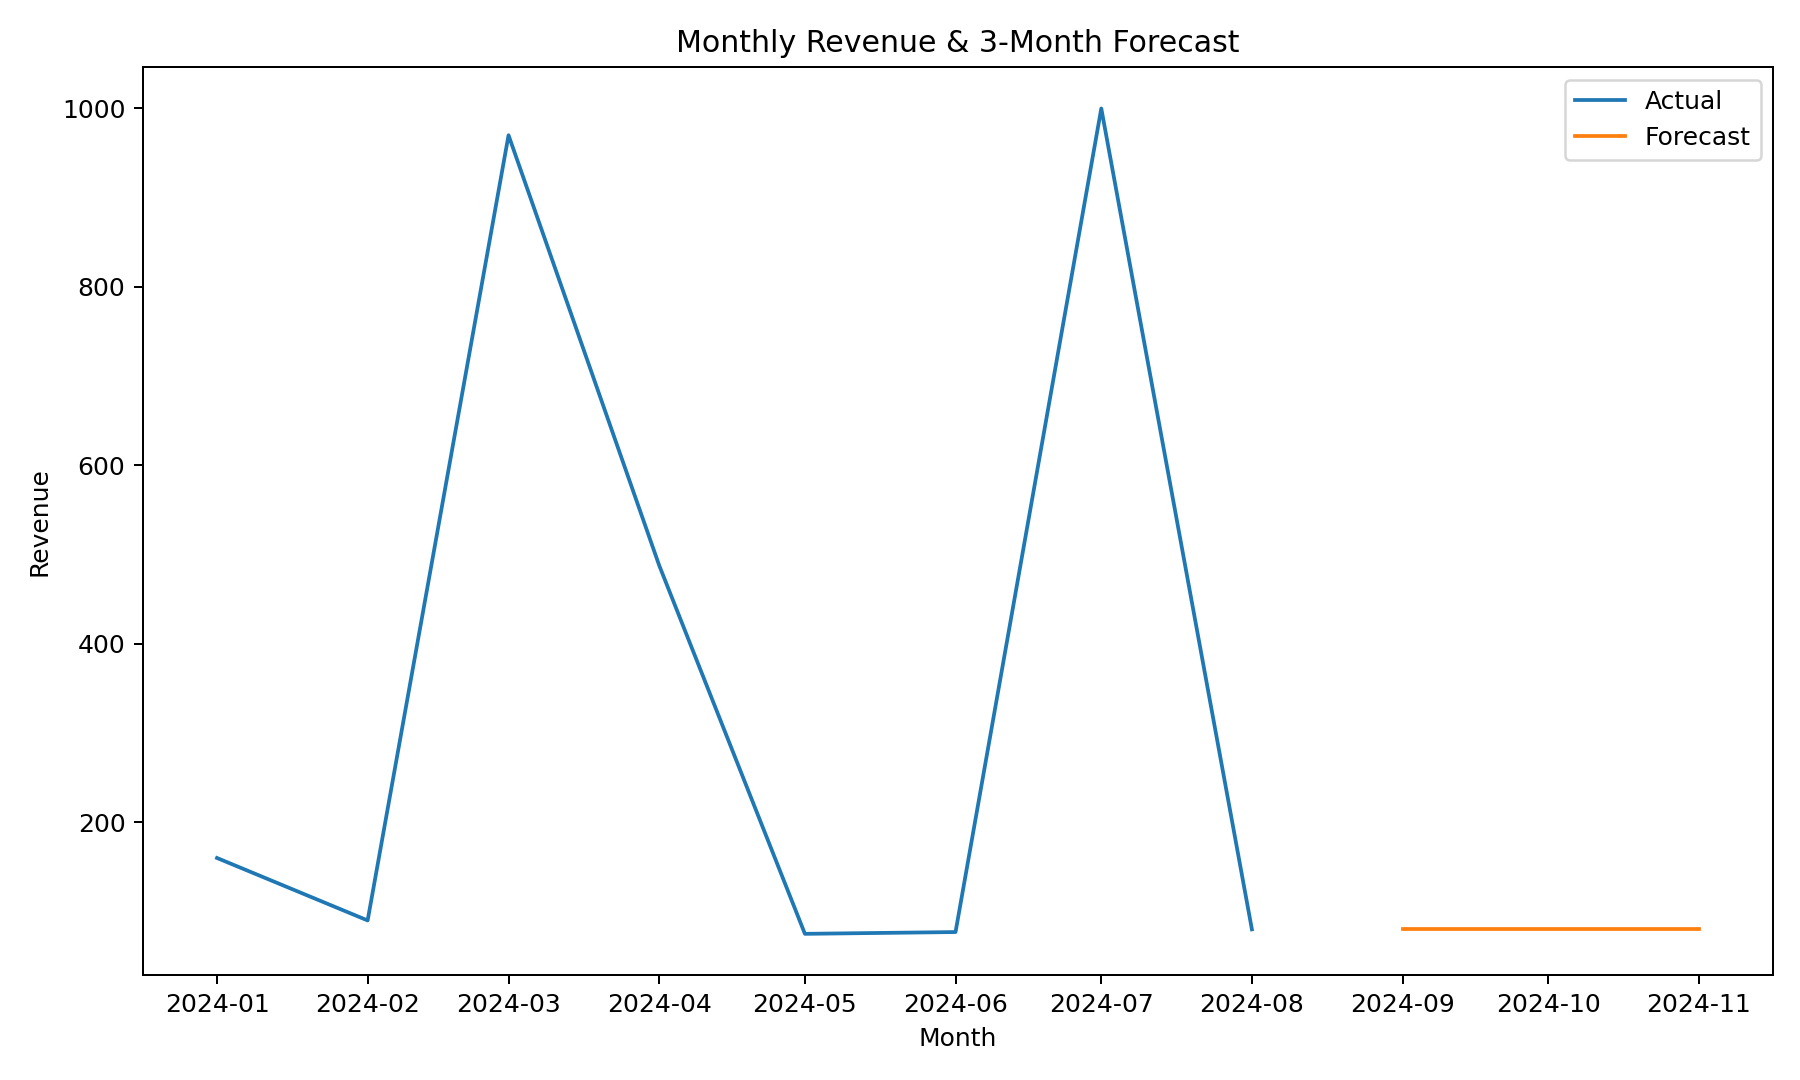
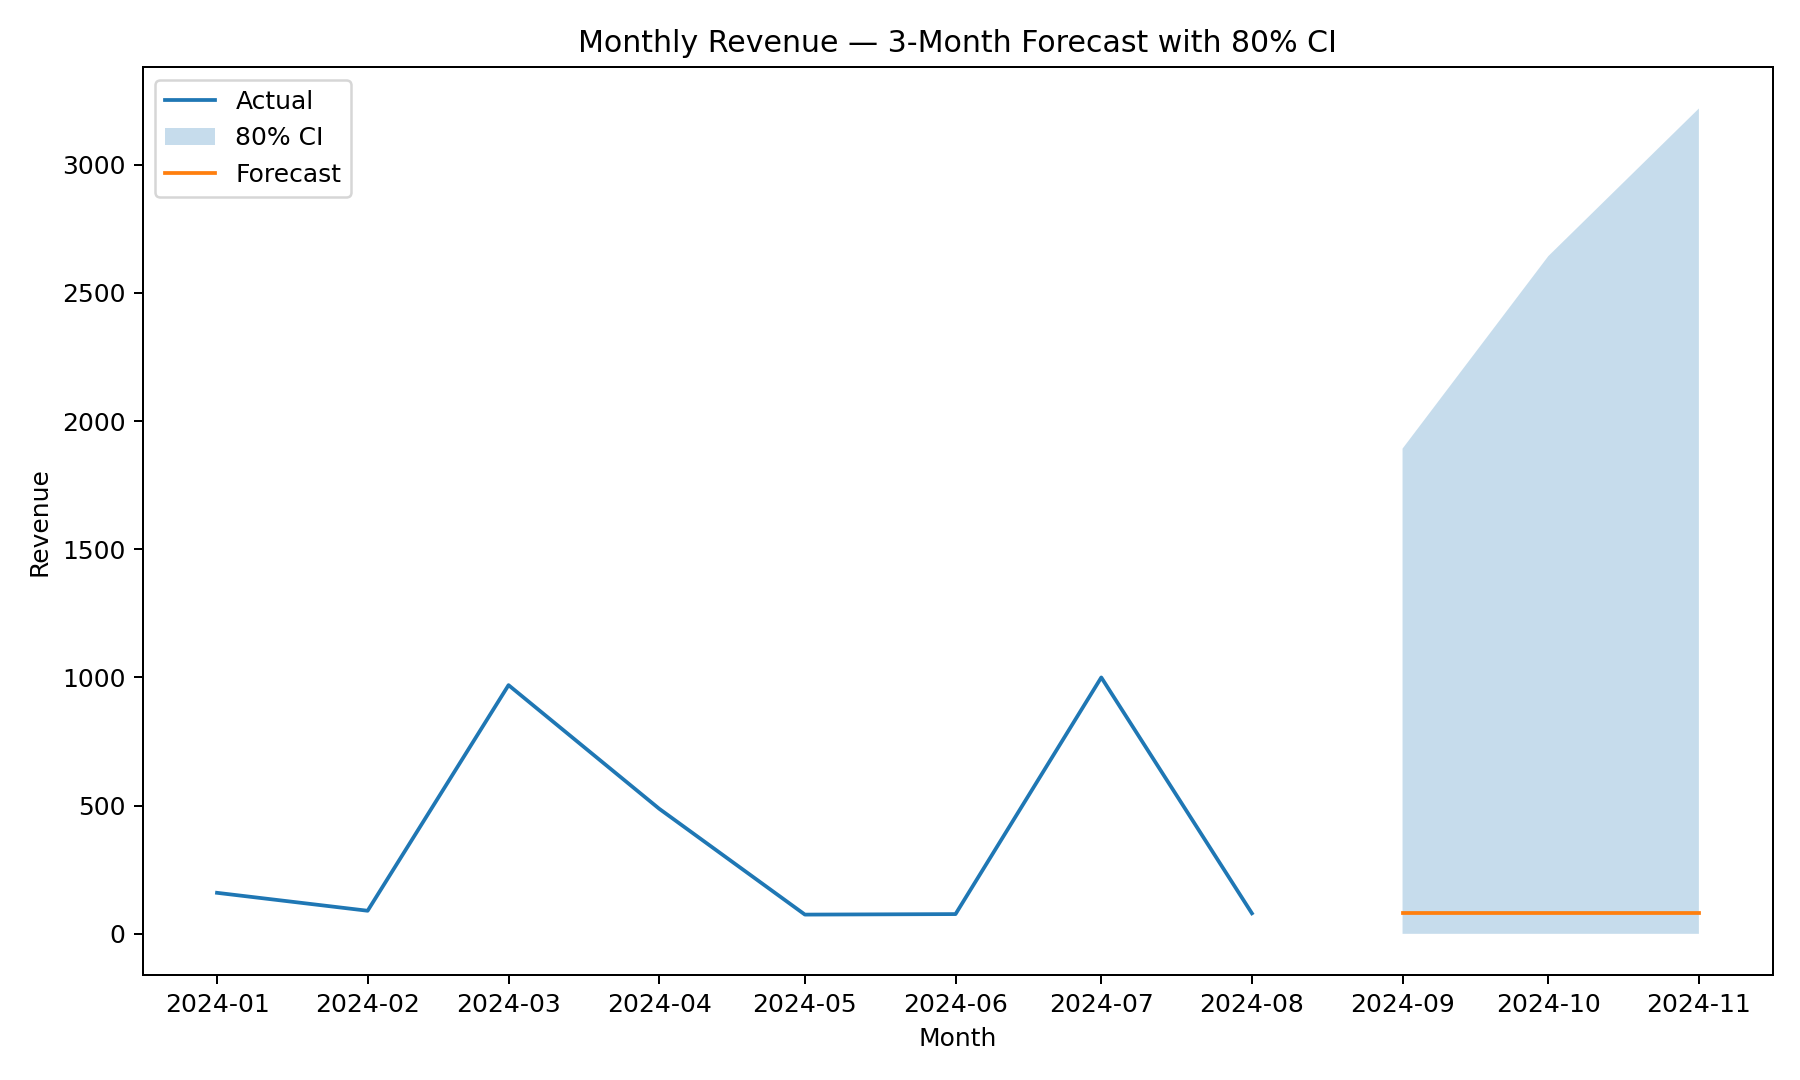
feat: CI bands, anomaly detection, BI exports (CSV + SQLite), real dataset compatibility

diff --git a/outputs/bi_dashboard.html b/outputs/bi_dashboard.html
@@ -1,2 +1,2 @@
 <h1>Retail BI Dashboard</h1><div>                        <script type="text/javascript">window.PlotlyConfig = {MathJaxConfig: 'local'};</script>
[2 lines of base64/hex data omitted]

diff --git a/retail_bi.py b/retail_bi.py
@@ -1,145 +1,213 @@
 #!/usr/bin/env python3
-import sys, re
+import sys, re, sqlite3
 from pathlib import Path
 import pandas as pd
 import numpy as np
 import matplotlib
-matplotlib.use("Agg")  # headless
+matplotlib.use("Agg")
 import matplotlib.pyplot as plt
 from statsmodels.tsa.statespace.sarimax import SARIMAX
 import plotly.graph_objects as go
 
+# ---------- Loading & cleaning ----------
+
 def load_transactions(path: Path) -> pd.DataFrame:
-    df = pd.read_csv(path, low_memory=False)
-    # Flexible header handling
+    df = pd.read_csv(path, low_memory=False, encoding="utf-8")
+    # Map likely column aliases (supports Online Retail / Online Retail II)
     cols = {c.lower(): c for c in df.columns}
-    date_col   = cols.get("invoicedate") or cols.get("date")
-    qty_col    = cols.get("quantity")
-    price_col  = cols.get("unitprice") or cols.get("price")
-    country_col= cols.get("country")
-    item_col   = cols.get("description") or cols.get("stockcode") or cols.get("item")
+    date_col    = cols.get("invoicedate") or cols.get("invoice_date") or cols.get("date")
+    qty_col     = cols.get("quantity") or cols.get("qty")
+    price_col   = cols.get("unitprice") or cols.get("unit_price") or cols.get("price")
+    country_col = cols.get("country")
+    desc_col    = cols.get("description") or cols.get("stockcode") or cols.get("item") or cols.get("stock_code")
 
-    if not date_col or not qty_col or not price_col:
-        raise RuntimeError("CSV must have at least: InvoiceDate/Date, Quantity, UnitPrice/Price")
+    req = [date_col, qty_col, price_col]
+    if any(x is None for x in req):
+        raise RuntimeError("CSV must include InvoiceDate/Date, Quantity, UnitPrice/Price")
 
-    df.rename(columns={
-        date_col:"InvoiceDate",
-        qty_col:"Quantity",
-        price_col:"UnitPrice",
-        (country_col or "Country"):"Country",
-        (item_col or "Item"):"Item"
-    }, inplace=True)
+    # Standard names
+    df = df.rename(columns={
+        date_col: "InvoiceDate",
+        qty_col: "Quantity",
+        price_col: "UnitPrice",
+        (country_col or "Country"): "Country",
+        (desc_col or "Item"): "Item",
+    })
 
-    # Types + basic cleaning
+    # Types + filters
     df["InvoiceDate"] = pd.to_datetime(df["InvoiceDate"], errors="coerce")
-    df = df.dropna(subset=["InvoiceDate"])
-    df["Quantity"] = pd.to_numeric(df["Quantity"], errors="coerce")
-    df["UnitPrice"] = pd.to_numeric(df["UnitPrice"], errors="coerce")
+    df["Quantity"]    = pd.to_numeric(df["Quantity"], errors="coerce")
+    df["UnitPrice"]   = pd.to_numeric(df["UnitPrice"], errors="coerce")
+
+    df = df.dropna(subset=["InvoiceDate", "Quantity", "UnitPrice"])
     df = df[(df["Quantity"] > 0) & (df["UnitPrice"] > 0)]
+
     df["Revenue"] = df["Quantity"] * df["UnitPrice"]
 
-    # Category (simple heuristic from start of text)
+    # Simple category (first token(s) of description) – good enough for demo
     if "Item" in df.columns:
         df["Category"] = (df["Item"].astype(str)
-            .str.extract(r"^([A-Za-z][A-Za-z ]{2,20})", expand=False)
-            .fillna("Misc").str.strip())
+                          .str.extract(r"^([A-Za-z][A-Za-z ]{2,20})", expand=False)
+                          .fillna("Misc").str.strip())
     else:
         df["Category"] = "Misc"
 
-    df["Country"] = df.get("Country", "Unknown")
-    df["Country"] = df["Country"].astype(str).str.title().str.strip()
+    df["Country"] = df.get("Country", "Unknown").astype(str).str.title().str.strip()
     return df
 
 def monthly_agg(df: pd.DataFrame) -> pd.DataFrame:
     df["Month"] = df["InvoiceDate"].dt.to_period("M").dt.to_timestamp()
-    return (df.groupby(["Month","Country","Category"], as_index=False)["Revenue"]
-              .sum()
-              .sort_values(["Month","Revenue"], ascending=[True, False]))
+    grouped = (df.groupby(["Month", "Country", "Category"], as_index=False)["Revenue"]
+                 .sum()
+                 .sort_values(["Month", "Revenue"], ascending=[True, False]))
+    return grouped
 
-def make_totals(monthly: pd.DataFrame) -> pd.Series:
-    total = (monthly.groupby("Month")["Revenue"].sum()
-             .sort_index()
-             .asfreq("MS", fill_value=0.0))
-    return total
+def totals_series(monthly: pd.DataFrame) -> pd.Series:
+    return (monthly.groupby("Month")["Revenue"].sum()
+            .sort_index()
+            .asfreq("MS", fill_value=0.0))
 
-def forecast_series(total: pd.Series, steps=3) -> pd.DataFrame:
-    # If too short, return flat forecast
+# ---------- Forecast + CI + anomalies ----------
+
+def forecast_with_ci(total: pd.Series, steps=3):
+    """Return df with yhat, lower, upper and residuals for training fit."""
     if len(total) < 8:
         idx = pd.date_range(total.index[-1] + pd.offsets.MonthBegin(), periods=steps, freq="MS")
-        return pd.DataFrame({"yhat":[float(total.iloc[-1])]*steps}, index=idx)
-    try:
-        model = SARIMAX(total, order=(1,1,1), seasonal_order=(0,1,1,12),
-                        enforce_stationarity=False, enforce_invertibility=False)
-        res = model.fit(disp=False)
-        fc = res.get_forecast(steps=steps).predicted_mean.clip(lower=0)
-        return pd.DataFrame({"yhat": fc})
-    except Exception:
-        idx = pd.date_range(total.index[-1] + pd.offsets.MonthBegin(), periods=steps, freq="MS")
-        return pd.DataFrame({"yhat":[float(total.iloc[-1])]*steps}, index=idx)
+        base = float(total.iloc[-1])
+        fc = pd.DataFrame({"yhat": [base]*steps, "lower": [base]*steps, "upper": [base]*steps}, index=idx)
+        residuals = total - total.rolling(3, min_periods=1).mean()
+        return fc, residuals
+
+    model = SARIMAX(total, order=(1,1,1), seasonal_order=(0,1,1,12),
+                    enforce_stationarity=False, enforce_invertibility=False)
+    res = model.fit(disp=False)
+    # in-sample residuals for anomaly detection
+    residuals = res.resid
+    fc_res = res.get_forecast(steps=steps)
+    pred = fc_res.predicted_mean.clip(lower=0)
+    ci   = fc_res.conf_int(alpha=0.20)  # 80% CI looks good in BI (tighter band)
+    ci.columns = ["lower", "upper"]
+    out = pd.DataFrame({"yhat": pred, "lower": ci["lower"].clip(lower=0), "upper": ci["upper"].clip(lower=0)})
+    return out, residuals
+
+def detect_anomalies(residuals: pd.Series, z_thresh=3.0) -> pd.DataFrame:
+    z = (residuals - residuals.mean()) / residuals.std(ddof=0)
+    flags = z.abs() >= z_thresh
+    return pd.DataFrame({
+        "Month": residuals.index,
+        "Residual": residuals.values,
+        "Z": z.values,
+        "Anomaly": flags.values
+    })
+
+# ---------- Visuals ----------
 
 def plot_forecast(total: pd.Series, fc: pd.DataFrame, outpath: Path):
     plt.figure(figsize=(10,6))
     plt.plot(total.index, total.values, label="Actual")
     if not fc.empty:
+        # CI band
+        plt.fill_between(fc.index, fc["lower"], fc["upper"], alpha=0.25, label="80% CI")
         plt.plot(fc.index, fc["yhat"], label="Forecast")
-    plt.title("Monthly Revenue & 3-Month Forecast")
+    plt.title("Monthly Revenue — 3-Month Forecast with 80% CI")
     plt.xlabel("Month"); plt.ylabel("Revenue")
     plt.legend(); plt.tight_layout()
-    plt.savefig(outpath, dpi=180)
-    plt.close()
+    plt.savefig(outpath, dpi=180); plt.close()
 
-def build_dashboard(monthly: pd.DataFrame, total: pd.Series, fc: pd.DataFrame, outpath: Path):
-    # Line chart (actual + forecast)
-    fig_ts = go.Figure()
-    fig_ts.add_trace(go.Scatter(x=total.index, y=total.values, mode="lines", name="Actual"))
+def build_dashboard(monthly: pd.DataFrame,
+                    total: pd.Series,
+                    fc: pd.DataFrame,
+                    anomalies: pd.DataFrame,
+                    outpath: Path):
+    # Time series + forecast + anomalies
+    ts = go.Figure()
+    ts.add_trace(go.Scatter(x=total.index, y=total.values, name="Actual", mode="lines"))
     if not fc.empty:
-        fig_ts.add_trace(go.Scatter(x=fc.index, y=fc["yhat"], mode="lines", name="Forecast"))
-    fig_ts.update_layout(title="Monthly Revenue (Actual + 3-mo Forecast)", xaxis_title="Month", yaxis_title="Revenue")
+        ts.add_trace(go.Scatter(x=fc.index, y=fc["yhat"], name="Forecast", mode="lines"))
+        ts.add_trace(go.Scatter(x=list(fc.index)+list(fc.index[::-1]),
+                                y=list(fc["upper"])+list(fc["lower"][::-1]),
+                                fill="toself", name="80% CI", mode="lines", opacity=0.2))
+    # anomaly markers
+    anom_pts = anomalies[anomalies["Anomaly"] == True]
+    if not anom_pts.empty:
+        ts.add_trace(go.Scatter(x=anom_pts["Month"], y=total.reindex(anom_pts["Month"]).values,
+                                mode="markers", name="Anomalies", marker=dict(size=10, symbol="x")))
+    ts.update_layout(title="Revenue (Actual + Forecast + CI + Anomalies)",
+                     xaxis_title="Month", yaxis_title="Revenue")
 
+    # Last 3 months breakdowns
     latest = monthly["Month"].max()
-    last3 = monthly[monthly["Month"] >= (latest - pd.offsets.MonthBegin(2))]
+    last3  = monthly[monthly["Month"] >= (latest - pd.offsets.MonthBegin(2))]
+    top_country = last3.groupby("Country")["Revenue"].sum().sort_values(ascending=False).head(10)
+    top_cat     = last3.groupby("Category")["Revenue"].sum().sort_values(ascending=False).head(10)
 
-    # Top countries
-    top_country = (last3.groupby("Country")["Revenue"].sum()
-                   .sort_values(ascending=False).head(10))
-    fig_c = go.Figure(go.Bar(x=top_country.index, y=top_country.values))
-    fig_c.update_layout(title="Top Countries (Last 3 Months)", xaxis_title="Country", yaxis_title="Revenue")
+    bar_c = go.Figure(go.Bar(x=top_country.index, y=top_country.values, name="Countries"))
+    bar_c.update_layout(title="Top Countries (Last 3 Months)", xaxis_title="Country", yaxis_title="Revenue")
 
-    # Top categories
-    top_cat = (last3.groupby("Category")["Revenue"].sum()
-               .sort_values(ascending=False).head(10))
-    fig_cat = go.Figure(go.Bar(x=top_cat.index, y=top_cat.values))
-    fig_cat.update_layout(title="Top Categories (Last 3 Months)", xaxis_title="Category", yaxis_title="Revenue")
+    bar_cat = go.Figure(go.Bar(x=top_cat.index, y=top_cat.values, name="Categories"))
+    bar_cat.update_layout(title="Top Categories (Last 3 Months)", xaxis_title="Category", yaxis_title="Revenue")
 
-    # Simple multi-chart HTML
     html = "<h1>Retail BI Dashboard</h1>"
-    html += fig_ts.to_html(full_html=False, include_plotlyjs="cdn")
-    html += fig_c.to_html(full_html=False, include_plotlyjs=False)
-    html += fig_cat.to_html(full_html=False, include_plotlyjs=False)
+    html += ts.to_html(full_html=False, include_plotlyjs="cdn")
+    html += bar_c.to_html(full_html=False, include_plotlyjs=False)
+    html += bar_cat.to_html(full_html=False, include_plotlyjs=False)
     outpath.write_text(html, encoding="utf-8")
 
-def write_exec_report(monthly: pd.DataFrame, total: pd.Series, fc: pd.DataFrame, outpath: Path):
+# ---------- BI exports (Power BI / Tableau friendly) ----------
+
+def export_bi(monthly: pd.DataFrame, total: pd.Series, anomalies: pd.DataFrame, outdir: Path):
+    bi_dir = outdir / "bi_exports"
+    bi_dir.mkdir(parents=True, exist_ok=True)
+
+    # Star-ish CSVs
+    fact = monthly.rename(columns={"Month":"Date"}).copy()
+    fact["Date"] = pd.to_datetime(fact["Date"])
+    fact.to_csv(bi_dir / "fact_sales.csv", index=False)
+
+    dim_date = pd.DataFrame({"Date": total.index})
+    dim_date["Year"]  = dim_date["Date"].dt.year
+    dim_date["Month"] = dim_date["Date"].dt.month
+    dim_date["YearMonth"] = dim_date["Date"].dt.strftime("%Y-%m")
+    dim_date.to_csv(bi_dir / "dim_date.csv", index=False)
+
+    total.reset_index().rename(columns={"index":"Date","Revenue":"TotalRevenue"}).to_csv(bi_dir / "total_timeseries.csv", index=False)
+
+    anomalies.to_csv(bi_dir / "anomalies.csv", index=False)
+
+    # SQLite export (Power BI/Tableau can connect)
+    db = outdir / "retail_bi.sqlite"
+    with sqlite3.connect(db) as conn:
+        fact.to_sql("fact_sales", conn, if_exists="replace", index=False)
+        dim_date.to_sql("dim_date", conn, if_exists="replace", index=False)
+        anomalies.to_sql("anomalies", conn, if_exists="replace", index=False)
+
+# ---------- Exec summary ----------
+
+def write_exec_report(monthly: pd.DataFrame, total: pd.Series, fc: pd.DataFrame, anomalies: pd.DataFrame, outpath: Path):
     latest = monthly["Month"].max()
     last3 = monthly[monthly["Month"] >= (latest - pd.offsets.MonthBegin(2))]
-    top_country = (last3.groupby("Country")["Revenue"].sum().sort_values(ascending=False).head(1))
-    top_cat = (last3.groupby("Category")["Revenue"].sum().sort_values(ascending=False).head(1))
+    top_country = last3.groupby("Country")["Revenue"].sum().sort_values(ascending=False).head(1)
+    top_cat = last3.groupby("Category")["Revenue"].sum().sort_values(ascending=False).head(1)
 
     lines = []
     lines.append("Retail BI — Executive Summary")
     lines.append("================================")
     if not top_country.empty:
-        ctry, val = top_country.index[0], float(top_country.iloc[0])
-        lines.append(f"- Top country (last 3 months): {ctry} — revenue £{val:,.0f}")
+        lines.append(f"- Top country (last 3 months): {top_country.index[0]} — £{float(top_country.iloc[0]):,.0f}")
     if not top_cat.empty:
-        cat, val = top_cat.index[0], float(top_cat.iloc[0])
-        lines.append(f"- Top category (last 3 months): {cat} — revenue £{val:,.0f}")
+        lines.append(f"- Top category (last 3 months): {top_cat.index[0]} — £{float(top_cat.iloc[0]):,.0f}")
     if not fc.empty:
-        lines.append(f"- Next 3 months forecast (point total): £{fc['yhat'].sum():,.0f}")
+        lines.append(f"- Next 3 months forecast: £{fc['yhat'].sum():,.0f} (point total), CI shown on chart")
+    if (anomalies["Anomaly"] == True).any():
+        n = int((anomalies['Anomaly'] == True).sum())
+        lines.append(f"- Anomalies detected: {n} outliers in history (flagged by z-score ≥ 3)")
     lines.append("")
     lines.append("Implications:")
-    lines.append("- Double down on top categories; monitor tail for stockouts/markdown risk.")
-    lines.append("- Use forecast to plan buys and working capital.")
+    lines.append("- Prioritise top markets/categories; investigate anomaly months for promo/stockout effects.")
+    lines.append("- Use forecast & CI to set buy plans and cash buffers; alert if actuals breach CI band.")
     outpath.write_text("\n".join(lines), encoding="utf-8")
+
+# ---------- Main ----------
 
 def main():
     if len(sys.argv) < 2:
@@ -155,16 +223,20 @@ def main():
     monthly = monthly_agg(df)
     monthly.to_csv(outdir / "cleaned_sales.csv", index=False)
 
-    total = make_totals(monthly)
-    fc = forecast_series(total, steps=3)
+    total = totals_series(monthly)
+    fc, residuals = forecast_with_ci(total, steps=3)
+    anomalies = detect_anomalies(residuals)
+
     plot_forecast(total, fc, outdir / "forecast.png")
-    build_dashboard(monthly, total, fc, outdir / "bi_dashboard.html")
-    write_exec_report(monthly, total, fc, outdir / "report.txt")
+    build_dashboard(monthly, total, fc, anomalies, outdir / "bi_dashboard.html")
+    export_bi(monthly, total, anomalies, outdir)
+    write_exec_report(monthly, total, fc, anomalies, outdir / "report.txt")
 
     print("Done.")
     print("Wrote:", outdir / "cleaned_sales.csv")
     print("Wrote:", outdir / "forecast.png")
     print("Wrote:", outdir / "bi_dashboard.html")
+    print("Wrote:", outdir / "bi_exports/* and retail_bi.sqlite")
     print("Wrote:", outdir / "report.txt")
 
 if __name__ == "__main__":
